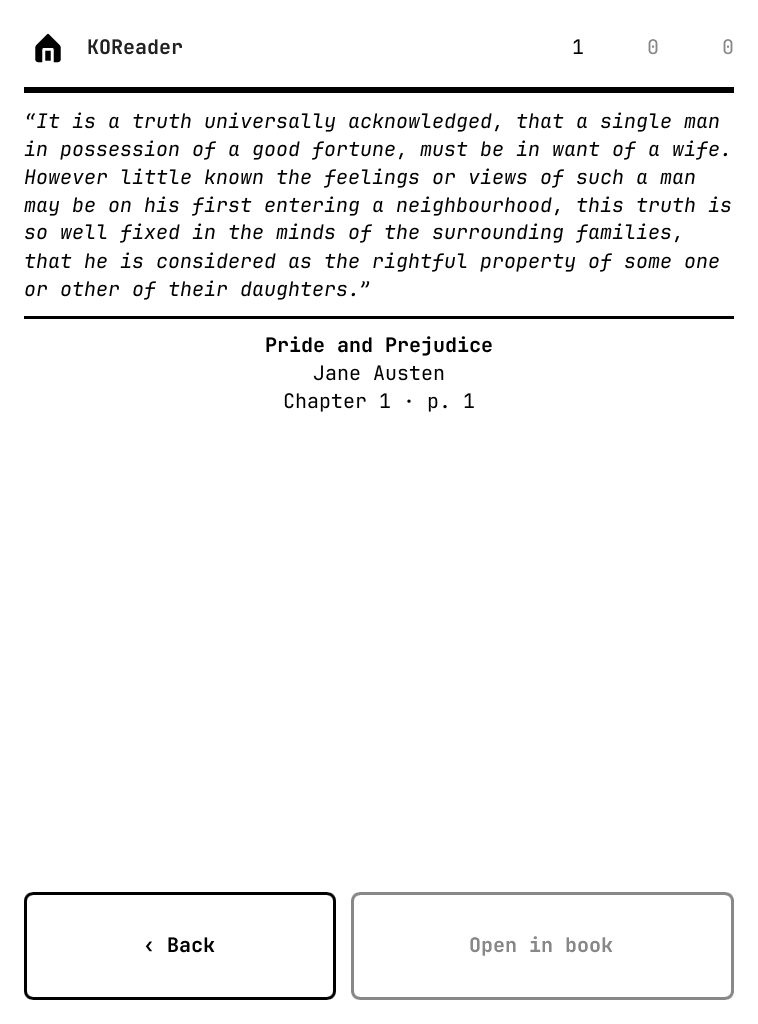
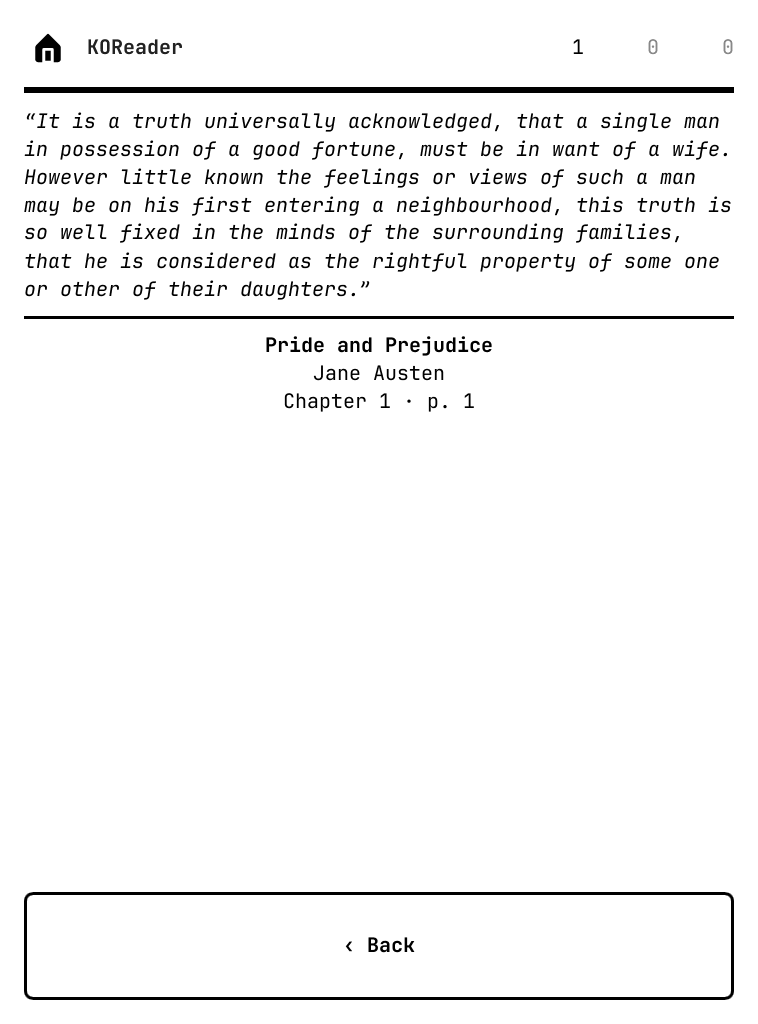
refactor: remove Open in book from the context screen and plugin

diff --git a/common/src/api.rs b/common/src/api.rs
@@ -29,8 +29,6 @@ pub struct LearnSession {
     pub current_card: RefCell<Option<i64>>,
     pub states: RefCell<Option<SchedulingStates>>,
     pub start_time: RefCell<Option<Instant>>,
-    /// Where the current card's highlight is, for Open in book
-    pub book_location: RefCell<Option<crate::open_book::BookLocation>>,
     /// Suspensions made from the learn screen that undo may reverse
     pub user_suspensions: RefCell<u32>,
     /// Folder holding the collection directory and the KOReader inbox.
@@ -74,7 +72,6 @@ pub fn init_session(config: &Config) -> Result<Rc<LearnSession>, String> {
         current_card: RefCell::new(None),
         states: RefCell::new(None),
         start_time: RefCell::new(None),
-        book_location: RefCell::new(None),
         user_suspensions: RefCell::new(0),
         app_dir: collection_dir
             .parent()
@@ -93,9 +90,6 @@ pub struct TextRequest {
 /// Opens the platform keyboard; `done` receives the text, or `None` if cancelled.
 pub type TextPrompt = Rc<dyn Fn(TextRequest, Box<dyn FnOnce(Option<String>)>)>;
 
-/// Opens a book file in another app.
-pub type OpenBookFn = Rc<dyn Fn(&str) -> Result<(), String>>;
-
 /// Logs in to AnkiWeb with a username and password, returning the session key.
 pub type LoginFn = Arc<dyn Fn(&str, &str) -> Result<String, String> + Send + Sync>;
 
@@ -110,8 +104,6 @@ pub struct PlatformHooks {
     pub sync: crate::SyncFn,
     /// Set when the app comes back to the foreground
     pub reopened: Option<Arc<std::sync::atomic::AtomicBool>>,
-    /// Opens a book file in KOReader
-    pub open_in_koreader: Option<OpenBookFn>,
 }
 
 impl Default for PlatformHooks {
@@ -122,7 +114,6 @@ impl Default for PlatformHooks {
             login: Arc::new(crate::sync::login_blocking),
             sync: Arc::new(crate::sync::sync_blocking),
             reopened: None,
-            open_in_koreader: None,
         }
     }
 }
@@ -149,22 +140,6 @@ pub fn setup_ui(ui: &MainWindow, config: &Config, hooks: PlatformHooks) {
 
     crate::sync_ui::setup_sync(ui, &session, &shared_config, &hooks);
     crate::edit::setup_edit(ui, &session, &hooks);
-
-    let session_for_book = session.clone();
-    let open_in_koreader = hooks.open_in_koreader.clone();
-    ui.on_open_book(move || {
-        let Some(location) = session_for_book.book_location.borrow().clone() else {
-            return;
-        };
-        let opened = crate::open_book::write_request(&session_for_book.app_dir, &location)
-            .and_then(|()| match &open_in_koreader {
-                Some(open) => open(&location.file),
-                None => Err("Opening books needs KOReader on the PocketBook.".into()),
-            });
-        if let Err(e) = opened {
-            eprintln!("Open in book: {e}");
-        }
-    });
 
     let session_for_deck_tree = session.clone();
     let ui_weak = ui.as_weak();
@@ -660,9 +635,6 @@ fn load_next_card(
     let context = crate::inbox::CardContext::from_note(&notetype, &note);
     drop(col);
 
-    let book_location = context.as_ref().and_then(|c| c.book_location());
-    *session.book_location.borrow_mut() = book_location.clone();
-
     let context_pages = context
         .as_ref()
         .map(|c| crate::render::layout(&c.to_html(), grid.columns, grid.rows))
@@ -693,7 +665,6 @@ fn load_next_card(
                 .collect::<Vec<_>>(),
         )),
         context: crate::utils::pages_model(context_pages),
-        can_open_book: book_location.is_some(),
         message: SharedString::new(),
     };
 

diff --git a/src/main.rs b/src/main.rs
@@ -32,23 +32,6 @@ fn connect_network(iv: &'static Inkview) -> Result<(), String> {
     }
 }
 
-/// Opens a book in KOReader through its launcher, which also brings an
-/// already running KOReader to the front.
-fn open_in_koreader(file: &str) -> Result<(), String> {
-    use std::os::unix::process::CommandExt;
-    let mut child = std::process::Command::new("/bin/sh")
-        .arg("/mnt/ext1/applications/koreader.app")
-        .arg(file)
-        // Keep KOReader running when pbAnki closes
-        .process_group(0)
-        .spawn()
-        .map_err(|e| format!("Couldn't start KOReader: {e}"))?;
-    std::thread::spawn(move || {
-        let _ = child.wait();
-    });
-    Ok(())
-}
-
 /// Opens the PocketBook keyboard and polls for its result on the UI thread.
 fn keyboard_prompt(iv: &'static Inkview) -> TextPrompt {
     let timer = Rc::new(slint::Timer::default());
@@ -133,7 +116,6 @@ fn main() {
                 text_prompt: Some(keyboard_prompt(iv)),
                 connect_network: Some(Rc::new(move || connect_network(iv))),
                 reopened: Some(reopened_for_ui),
-                open_in_koreader: Some(Rc::new(open_in_koreader)),
                 ..PlatformHooks::default()
             };
             setup_ui(&ui, &config, hooks);

diff --git a/common/src/inbox.rs b/common/src/inbox.rs
@@ -295,11 +295,6 @@ impl CardContext {
         (context.quote.trim() != "" || context.book.trim() != "").then_some(context)
     }
 
-    /// Where the highlight is, when the book is still on the device.
-    pub fn book_location(&self) -> Option<crate::open_book::BookLocation> {
-        crate::open_book::BookLocation::from_fields(&self.file, &self.position)
-    }
-
     /// Quote, rule, then book details, as HTML for the page renderer.
     pub fn to_html(&self) -> String {
         let mut html = String::new();
@@ -325,10 +320,6 @@ impl CardContext {
             html.push_str(&place.join(" · "));
         }
         html
-    }
-
-    pub fn can_open(&self) -> bool {
-        !self.file.is_empty()
     }
 }
 
@@ -586,6 +577,5 @@ mod tests {
             context.to_html(),
             "<i>“To be”</i><hr><b>Hamlet</b><br>Shakespeare<br>Act III · p. 57"
         );
-        assert!(!context.can_open());
     }
 }

diff --git a/dev/src/bin/emulator.rs b/dev/src/bin/emulator.rs
@@ -97,7 +97,6 @@ fn main() -> Result<(), Box<dyn std::error::Error>> {
         }),
         sync: std::sync::Arc::new(fake_sync),
         reopened: Some(reopened.clone()),
-        open_in_koreader: None,
     };
     setup_ui(&ui, &config, hooks);
     ui.show()?;

diff --git a/common/src/lib.rs b/common/src/lib.rs
@@ -6,7 +6,6 @@ pub mod collection;
 pub mod config;
 pub mod edit;
 pub mod inbox;
-pub mod open_book;
 pub mod render;
 pub mod sync;
 pub mod sync_ui;
